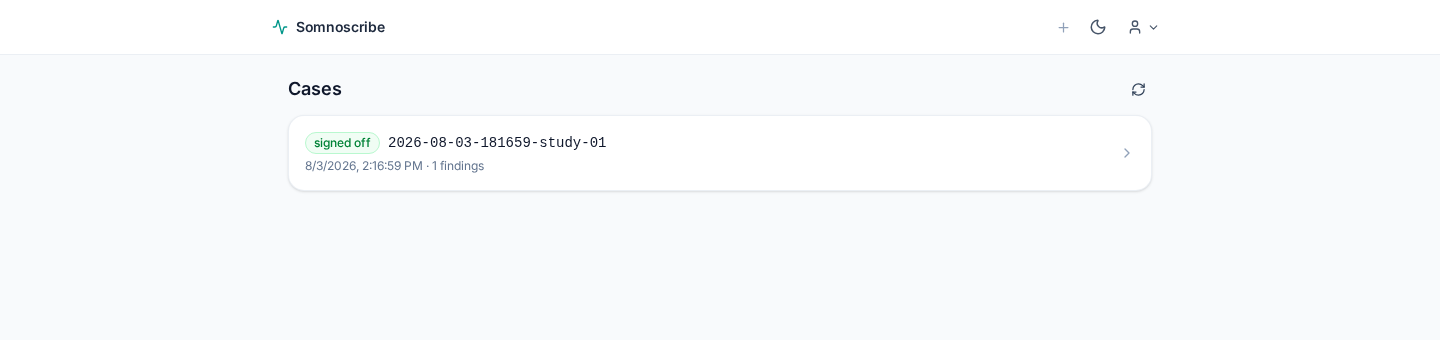
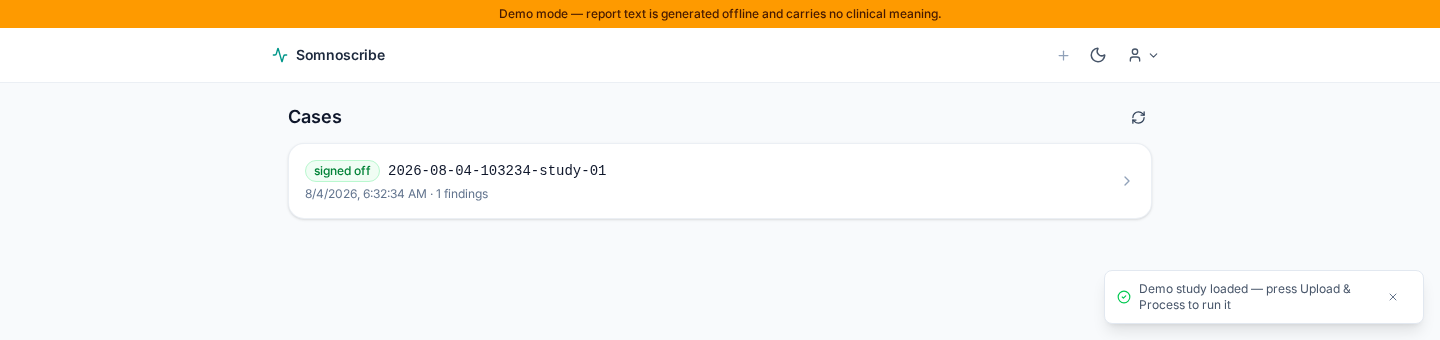
test: drive the demo journey and recapture the documentation screenshots
The demo only makes the claim it is supposed to make if the generated study
survives the real upload path, so the new spec drives it from the button rather
than posting the file. The auth suite checks that the offline-model banner is
visible before any session exists — someone could otherwise work through a whole
case without seeing it — and that the demo user needs nothing prepared.

Screenshots now capture the sign-in and demo panels, and the existing ones are
recaptured against the settled palette.

diff --git a/e2e/screenshots.spec.ts b/e2e/screenshots.spec.ts
@@ -11,32 +11,31 @@
  */
 import { expect, test } from '@playwright/test';
 
-test.use({ storageState: 'e2e/.auth/user.json' });
+test.use({ storageState: undefined });
 
 const OUT = 'docs/images';
 
 test('capture the README images from the synthetic journey', async ({ page }) => {
   await page.goto('/');
+  await page.getByRole('button', { name: 'Continue as demo user' }).click();
   await expect(page.getByRole('button', { name: 'Upload study' })).toBeVisible();
 
   await page.getByRole('button', { name: 'Upload study' }).click();
   await expect(page.getByRole('button', { name: 'Upload & Process' })).toBeVisible();
   // Each capture is sized to its own content. A fixed tall viewport leaves the
-  // shorter screens as mostly empty background in the README.
-  await page.setViewportSize({ width: 1440, height: 660 });
-  await page.screenshot({ path: `${OUT}/upload.png` });
+  // shorter screens as mostly empty background in the README. The demo panel
+  // and the form share a page, so they are captured element by element rather
+  // than by cropping the viewport around whichever one happens to be on top.
   await page.setViewportSize({ width: 1440, height: 900 });
+  await page.getByTestId('demo-panel').screenshot({ path: `${OUT}/demo-panel.png` });
+  await page.locator('form').screenshot({ path: `${OUT}/upload.png` });
 
-  await page.getByRole('button', { name: /Add supporting files/i }).click();
-  await page.locator('input[type="file"][accept=".pdf"]').setInputFiles({
-    name: 'synthetic-report.pdf',
-    mimeType: 'application/pdf',
-    buffer: Buffer.from('%PDF-1.4\n1 0 obj\n<<>>\nendobj\ntrailer\n<<>>\n%%EOF\n'),
-  });
+  await page.getByRole('button', { name: 'Load demo study' }).click();
+  await expect(page.getByText('somnoscribe-demo-study.edf')).toBeVisible({ timeout: 30_000 });
   await page.getByRole('button', { name: 'Upload & Process' }).click();
 
   await expect(page.getByRole('button', { name: 'Back to cases' })).toBeVisible({
-    timeout: 15_000,
+    timeout: 60_000,
   });
   await page.getByRole('button', { name: 'Analyze' }).click();
   await expect(page.getByText(/Synthetic workflow verification completed/)).toBeVisible({
@@ -73,4 +72,12 @@ test('capture the README images from the synthetic journey', async ({ page }) =>
   await expect(page.getByRole('button', { name: 'Upload study' })).toBeVisible();
   await page.setViewportSize({ width: 1440, height: 340 });
   await page.screenshot({ path: `${OUT}/case-list.png` });
+
+  // Signing out lands on the choice screen, which is where the demo user is
+  // offered. Captured last so the journey above does not have to start there.
+  await page.getByRole('button', { name: 'Account menu' }).click();
+  await page.getByRole('menuitem', { name: 'Sign out' }).click();
+  await expect(page.getByRole('button', { name: 'Sign in' })).toBeVisible();
+  await page.setViewportSize({ width: 1440, height: 480 });
+  await page.screenshot({ path: `${OUT}/sign-in.png` });
 });

diff --git a/e2e/demo-study.spec.ts b/e2e/demo-study.spec.ts
@@ -1,0 +1,39 @@
+// Copyright 2026 Alex Macra
+// SPDX-License-Identifier: AGPL-3.0-only
+import { expect, test } from '@playwright/test';
+
+test.use({ storageState: undefined });
+
+/**
+ * The demo exists so someone with no sleep study and no provider account can
+ * still see the application work. That claim is only true if the generated
+ * recording survives the real upload and preprocessing path, so this drives it
+ * from the button rather than posting the file directly.
+ */
+test('generated demo study uploads and preprocesses through the ordinary path', async ({
+  page,
+}) => {
+  await page.goto('/');
+  await page.getByRole('button', { name: 'Continue as demo user' }).click();
+  await expect(page.getByRole('button', { name: 'Upload study' })).toBeVisible();
+  await page.getByRole('button', { name: 'Upload study' }).click();
+
+  await expect(page.getByRole('heading', { name: 'Try it with a demo study' })).toBeVisible();
+  // The panel describes the generator, which is what a reader compares the
+  // detected numbers against.
+  await expect(page.getByText('Flow, Thorax, SpO2, Pulse, Position')).toBeVisible();
+
+  await page.getByRole('button', { name: 'Load demo study' }).click();
+
+  await expect(page.getByText('somnoscribe-demo-study.edf')).toBeVisible({ timeout: 30_000 });
+  // A generated recording is an adult one; loading it must say so.
+  await expect(page.getByRole('radio', { name: 'Adult' })).toBeChecked();
+
+  await page.getByRole('button', { name: 'Upload & Process' }).click();
+
+  await expect(page.getByRole('button', { name: 'Back to cases' })).toBeVisible({
+    timeout: 60_000,
+  });
+  // Preprocessing found signal, not an empty documents-only package.
+  await expect(page.getByRole('button', { name: 'Analyze' })).toBeVisible();
+});

diff --git a/e2e/auth.spec.ts b/e2e/auth.spec.ts
@@ -10,6 +10,24 @@ test.describe('auth screen', () => {
     await page.goto('/');
   });
 
+  // This suite runs against the offline model adapter, so the banner is
+  // correct here — and it must reach the sign-in screen, before any session
+  // exists, or someone could work through a whole case without seeing it.
+  test('declares the offline model before anyone signs in', async ({ page }) => {
+    await expect(page.getByRole('status')).toContainText(/report text is generated offline/i);
+  });
+
+  // The whole point of the demo user is that nothing has to be arranged first.
+  // If this ever needs a key, a code, or a seeded account, it has stopped being
+  // a demo.
+  test('demo user signs in from the first screen with nothing prepared', async ({ page }) => {
+    await page.getByRole('button', { name: /Continue as demo user/ }).click();
+
+    await expect(page.getByRole('button', { name: 'Upload study' })).toBeVisible();
+    await page.getByRole('button', { name: 'Account menu' }).click();
+    await expect(page.getByText('demo@example.test')).toBeVisible();
+  });
+
   test('shows Somnoscribe branding and choice buttons', async ({ page }) => {
     await expect(page.getByText('Somnoscribe Sleep Study Review Assistant')).toBeVisible();
     await expect(page.getByRole('button', { name: 'Sign in' })).toBeVisible();
@@ -70,6 +88,7 @@ test.describe('auth screen', () => {
       window.localStorage.setItem('dark-mode', 'false');
     });
     await page.reload();
+    await expect(page.getByRole('button', { name: 'Continue as demo user' })).toBeVisible();
     await expect(page).toHaveScreenshot('auth-screen.png', {
       animations: 'disabled',
       caret: 'hide',

diff --git a/e2e/case-list.spec.ts b/e2e/case-list.spec.ts
@@ -30,7 +30,11 @@ test.describe('case list (authenticated)', () => {
 
   test('shows empty state when no cases', async ({ page }) => {
     await expect(page.getByText('No cases yet')).toBeVisible();
-    await expect(page.getByText('Upload a study to get started.')).toBeVisible();
+    await expect(page.getByText(/Upload a study to get started/)).toBeVisible();
+  });
+
+  test('does not offer demo-only generated files to a normal account', async ({ page }) => {
+    await expect(page.getByRole('button', { name: 'Try the demo study' })).toHaveCount(0);
   });
 
   test('header upload button navigates to upload form', async ({ page }) => {

diff --git a/e2e/global-setup.ts b/e2e/global-setup.ts
@@ -22,7 +22,7 @@ export default async function globalSetup(): Promise<void> {
     encoding: 'utf8',
     env: { ...process.env, DB_PATH: dbPath },
   });
-  const licenseKey = output.match(/AIST-(?:[A-F0-9]{4}-){4}[A-F0-9]{4}/)?.[0];
+  const licenseKey = output.match(/SOMNO-(?:[A-F0-9]{4}-){4}[A-F0-9]{4}/)?.[0];
   if (!licenseKey) throw new Error('Invitation generator did not return a key');
 
   const ctx = await request.newContext({ baseURL: API });

diff --git a/e2e/navigation.spec.ts b/e2e/navigation.spec.ts
@@ -49,7 +49,7 @@ test.describe('navigation', () => {
 
     await page.getByRole('button', { name: 'Somnoscribe' }).click();
     await expect(page.getByText('No cases yet')).toBeVisible();
-    await expect(page.getByText('Upload a study to get started.')).toBeVisible();
+    await expect(page.getByText(/Upload a study to get started/)).toBeVisible();
   });
 
   test('sign out redirects to auth screen', async ({ page }) => {

diff --git a/playwright.config.ts b/playwright.config.ts
@@ -65,6 +65,7 @@ export default defineConfig({
         PREPROCESSOR_URL: 'http://127.0.0.1:8001',
         CORS_ORIGINS: 'http://localhost:5173',
         SOMNOSCRIBE_SYNTHETIC_LLM: 'true',
+        SOMNOSCRIBE_DEMO_MODE: 'true',
         OPENAI_API_KEY: 'not-used-in-synthetic-test-mode',
         JWT_SECRET: 'synthetic-e2e-secret-not-for-production',
         AUTH_RATE_LIMIT_MAX: '1000',
